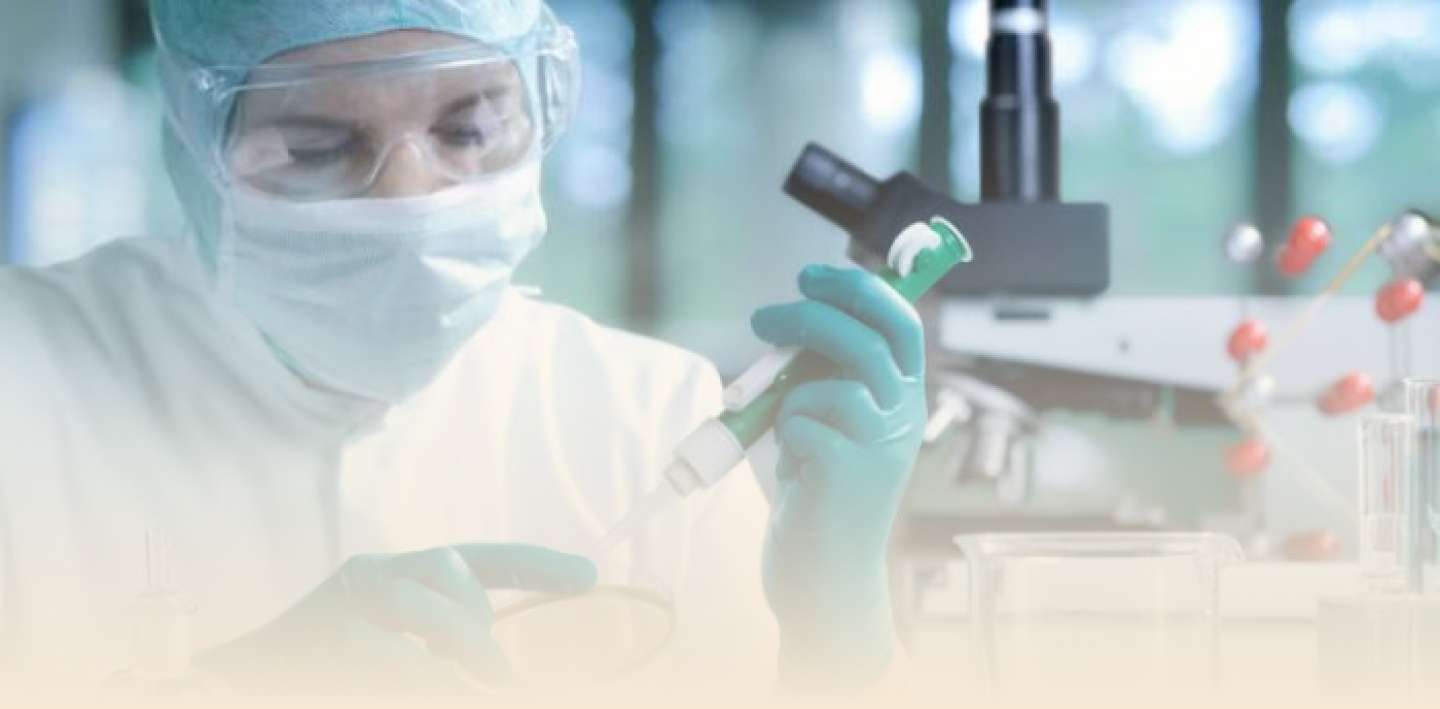
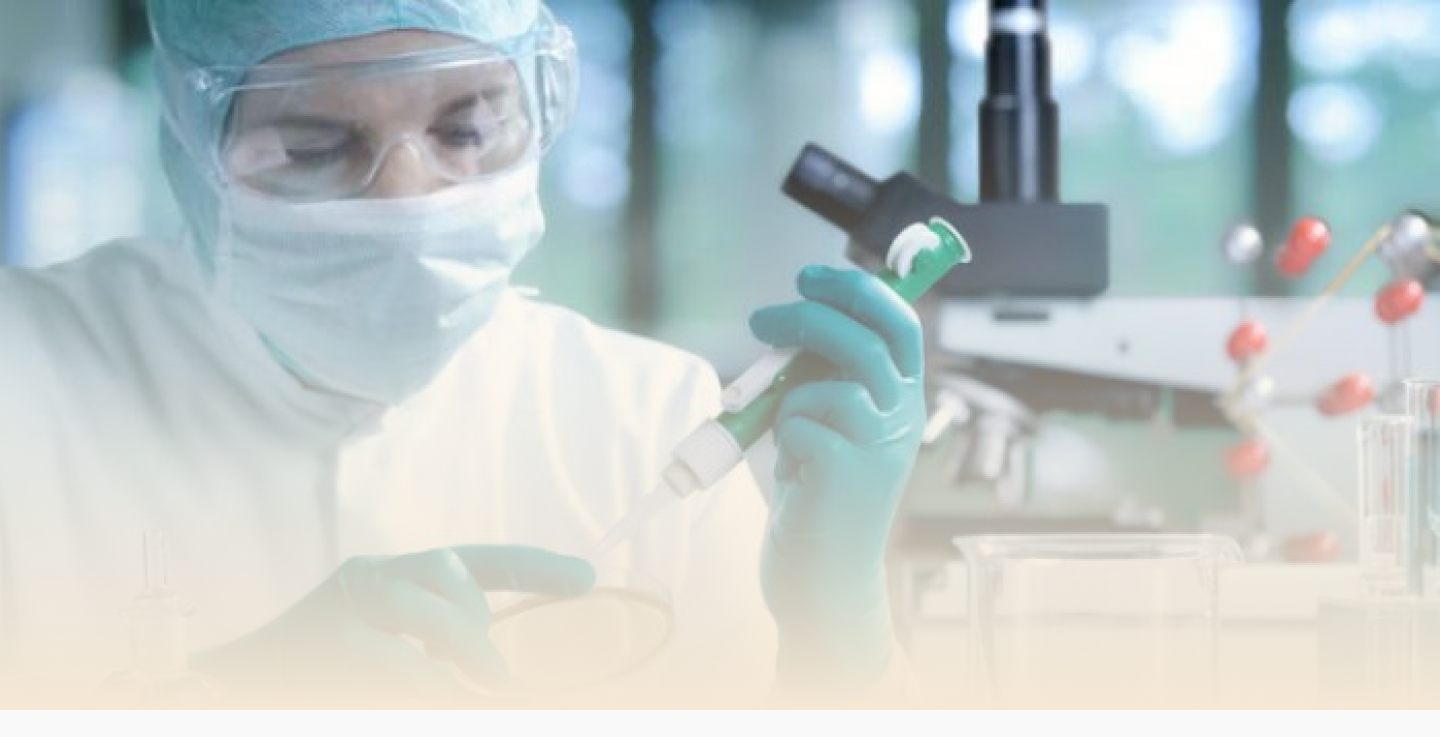
dolor, me duele todo

diff --git a/html/index.html b/html/index.html
@@ -84,18 +84,24 @@
         <div class="features flex">
             <div class="features__item">
                 <img src="/img/boat.jpg" alt="el fondo expandible" class="img__feat">
-                <h2>titulo</h2>
-                <p class="fetures__item__text">Lorem Ipsum</p>
+                <div class="info">
+                    <h2>titulo</h2>
+                    <p class="fetures__item__text">Lorem Ipsum</p>
+                </div>
             </div>
-            <div class="features_item">
+            <div class="features__item">
                 <img src="/img/barrel.jpg" alt="el fondo expandible" class="img__feat">
-                <h2>titulo</h2>
-                <p class="fetures__item__text">Lorem Ipsum</p>
+                <div class="info">
+                    <h2>titulo</h2>
+                    <p class="fetures__item__text">Lorem Ipsum</p>
+                </div>
             </div>
-            <div class="features_item">
+            <div class="features__item">
                 <img src="/img/especial.png" alt="el fondo expandible" class="img__feat">
-                <h2>titulo</h2>
-                <p class="fetures__item__text">Lorem Ipsum</p>
+                <div class="info">
+                    <h2>titulo</h2>
+                    <p class="fetures__item__text">Lorem Ipsum</p>
+                </div>
             </div>
         </div>
     </section>

diff --git a/css/index.css b/css/index.css
@@ -84,7 +84,6 @@ a {
 .menu__bot__item {
     padding: 12px 20px;
     position: relative;
-    height: 100%;
 
 }
 
@@ -195,7 +194,7 @@ input[type=text] {
 .img__banner {
     z-index: 1;
     object-fit: fill;
-    height: 700px;
+    height: 730px;
 }
 
 
@@ -225,11 +224,34 @@ input[type=text] {
 .features{
     width: 100%;
     flex-direction: row;
+    justify-content: space-evenly;
 }
 
 .img__feat {
     z-index: 1;
-    object-fit: fill;
-    height: 700px;
-    width: 30%;
+    height: 500px;
+    width: 100%;
 }
+.features__item{
+    width: 33.3%;
+    position: relative;
+}
+.info {
+    position: absolute;
+    bottom: 0;
+    background: rgb(0, 0, 0);
+    background: rgba(0, 0, 0, 0.5); /* Black see-through */
+    color: #f1f1f1;
+    width: 100%;
+    height: 100%;
+    transition: .5s ease;
+    opacity:0;
+    color: white;
+    font-size: 1.3em;
+    padding: 20px 20px 20px 20px;
+    text-align:center;
+    
+  }
+  .features__item:hover .info {
+    opacity: 1;
+  }
